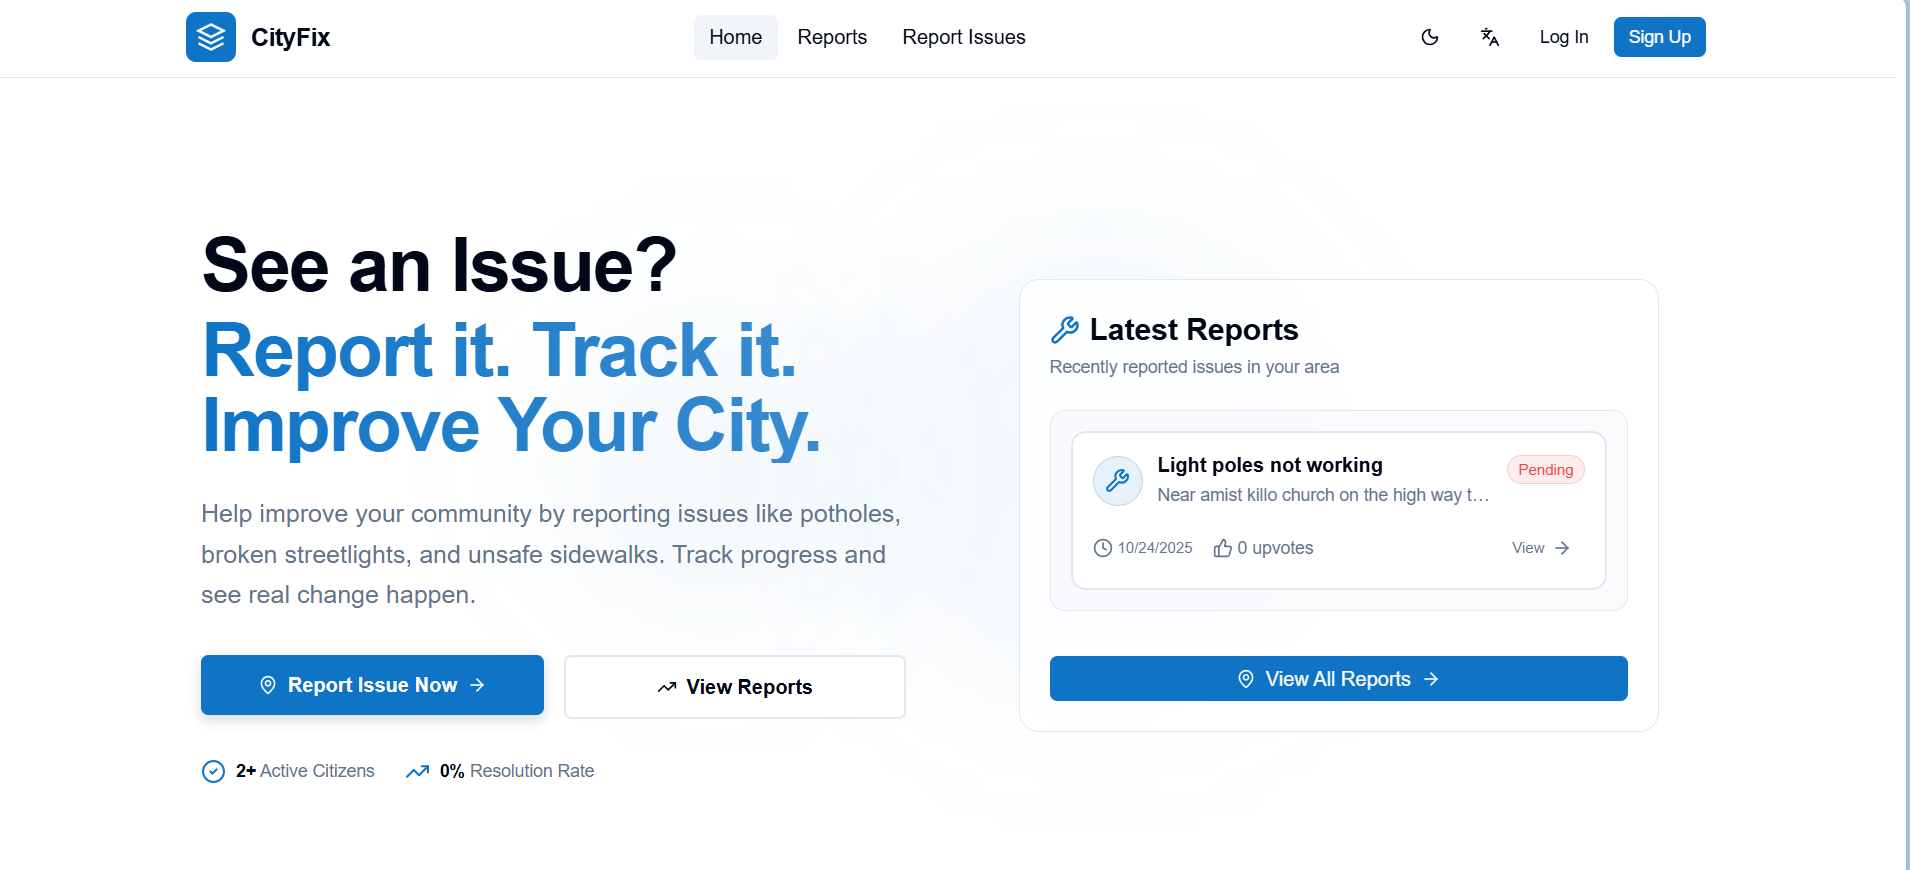
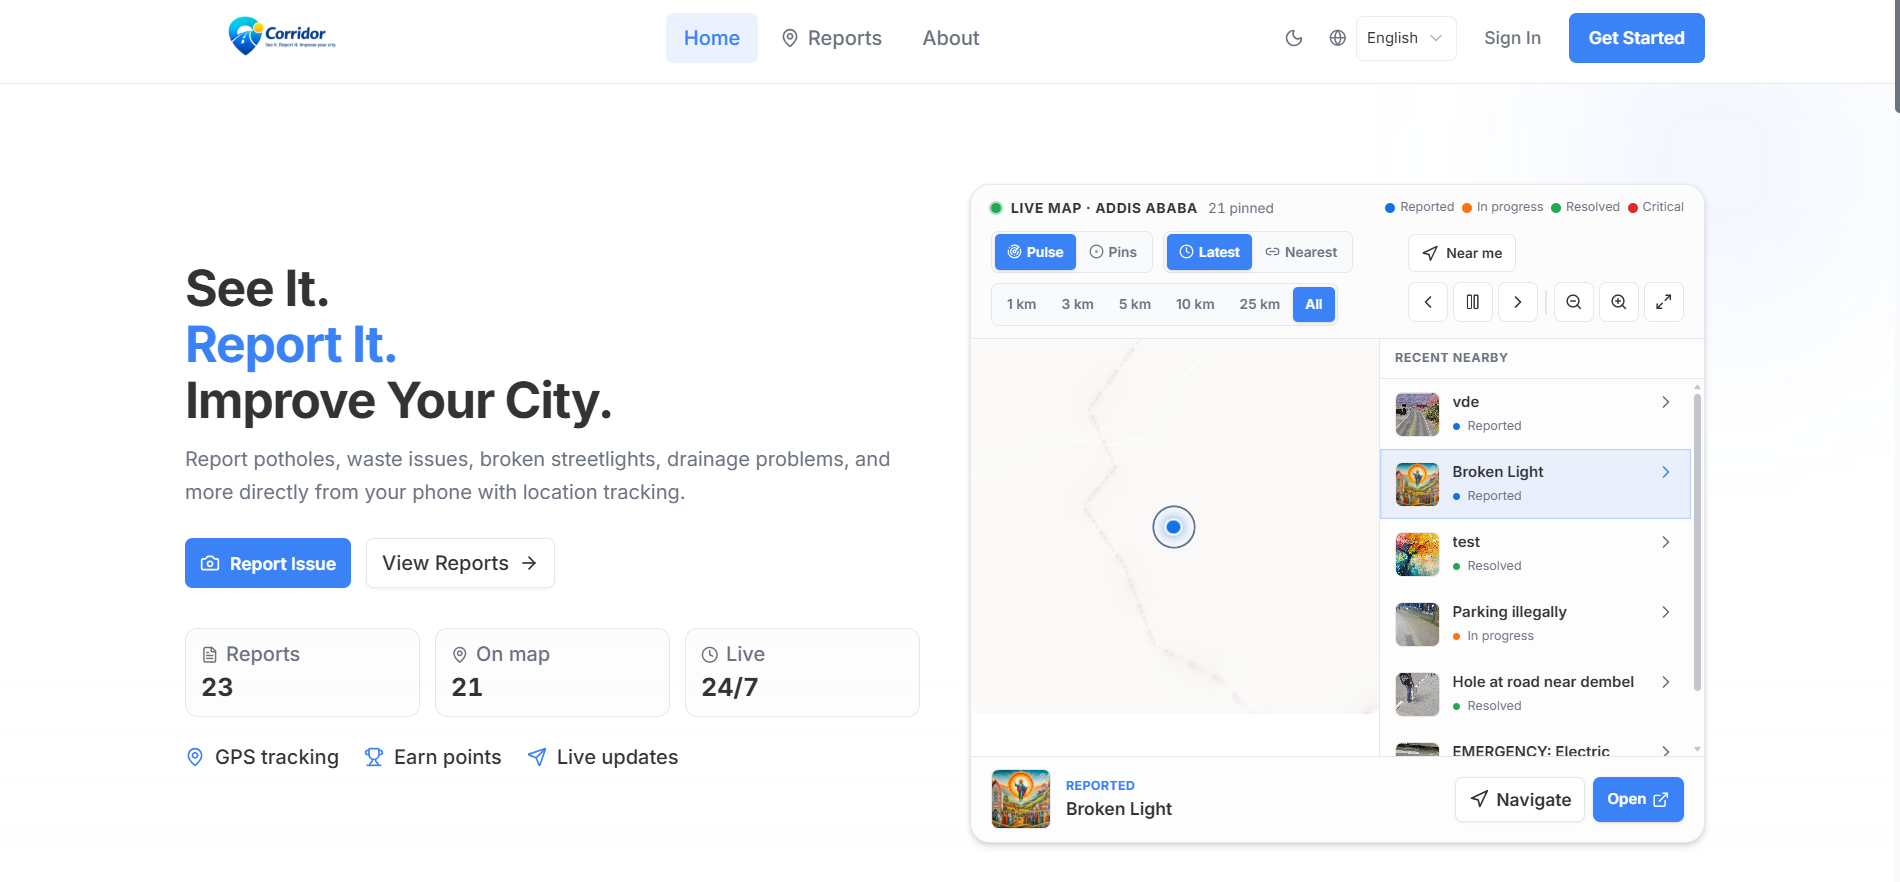
feat: update data

diff --git a/src/lib/projects-data.ts b/src/lib/projects-data.ts
@@ -216,36 +216,36 @@ export const projects: Project[] = [
     ],
   },
   {
-    id: "yene-events",
-    title: "Yene Events - Event Ticketing Platform",
+    id: "owl-events",
+    title: "Owl Events - All in One Event Management Platform",
     description:
       "Modern event ticketing platform with dynamic seating, QR check-ins, and comprehensive analytics. Streamlined event management for organizers and seamless experience for attendees.",
-    image: "/projects/yene_event.webp",
+    image: "/projects/owl_event.webp",
     techStack: [
       "Next.js",
       "TypeScript",
-      "Chapa",
-      "PostgreSQL",
-      "Drizzle",
-      "Better Auth",
+      "Material UI",
+   
     ],
-    categories: ["frontend", "backend", "fullstack"],
-    role: "Solo Developer",
+    categories: ["frontend"],
+    role: "Frontend Developer & Optimize Performance",
     problemStatement:
       "Event organizers need better tools for ticket management and attendee engagement, while attendees want seamless booking experiences.",
     features: [
-      "Interactive seat selection",
-      "QR code check-in system",
-      "Real-time analytics",
-      "Multi-payment gateway",
-      "Event promotion tools",
+      "Event management",
+      "Ticket management",
+      "Email Marketing System",
+      "Badge Editing System",
+      "Attendee management",
+      "Payment management",
+      "Analytics and reporting",
     ],
-    live: "https://yene-event.vercel.app/en",
+    live: "https://owlevents.app",
     featured: true,
     difficulty: "advanced",
-    duration: "4 months",
+    duration: "10 months",
     isReadyForView: true,
-    status: "in-progress",
+    status: "completed",
   },
   {
     id: "ifhcrs",

diff --git a/src/app/client-layout.tsx b/src/app/client-layout.tsx
@@ -45,10 +45,6 @@ export default function ClientLayout({
 }) {
   const mounted = useMounted();
 
-  if (!mounted) {
-    return <Splash />;
-  }
-
   return (
     <ThemeProvider
       attribute="class"
@@ -57,10 +53,14 @@ export default function ClientLayout({
       disableTransitionOnChange
       storageKey="theme"
     >
-      <Suspense fallback={<Splash />}>
-        {children}
-        <LightweightScrollToTop />
-      </Suspense>
+      {!mounted ? (
+        <Splash />
+      ) : (
+        <Suspense fallback={<Splash />}>
+          {children}
+          <LightweightScrollToTop />
+        </Suspense>
+      )}
     </ThemeProvider>
   );
 }

diff --git a/src/components/sections/about.tsx b/src/components/sections/about.tsx
@@ -76,7 +76,7 @@ export const AboutMe = () => {
             <div className="space-y-5 text-foreground text-base sm:text-lg md:text-xl leading-relaxed">
               <p>
                 I’m Mulugeta Adamu, a Frontend Engineer based in Addis Ababa
-                with 3+ years of experience building performant products with
+                with 4+ years of experience building performant products with
                 React, Next.js, TypeScript, and React Native.
               </p>
               <p>